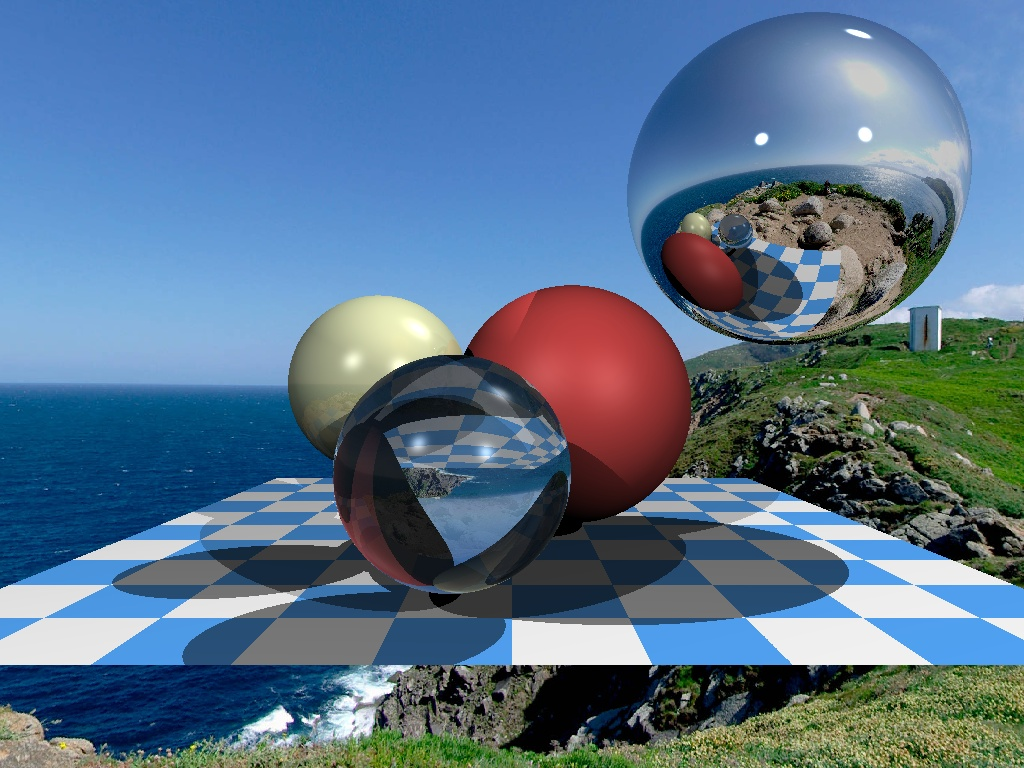
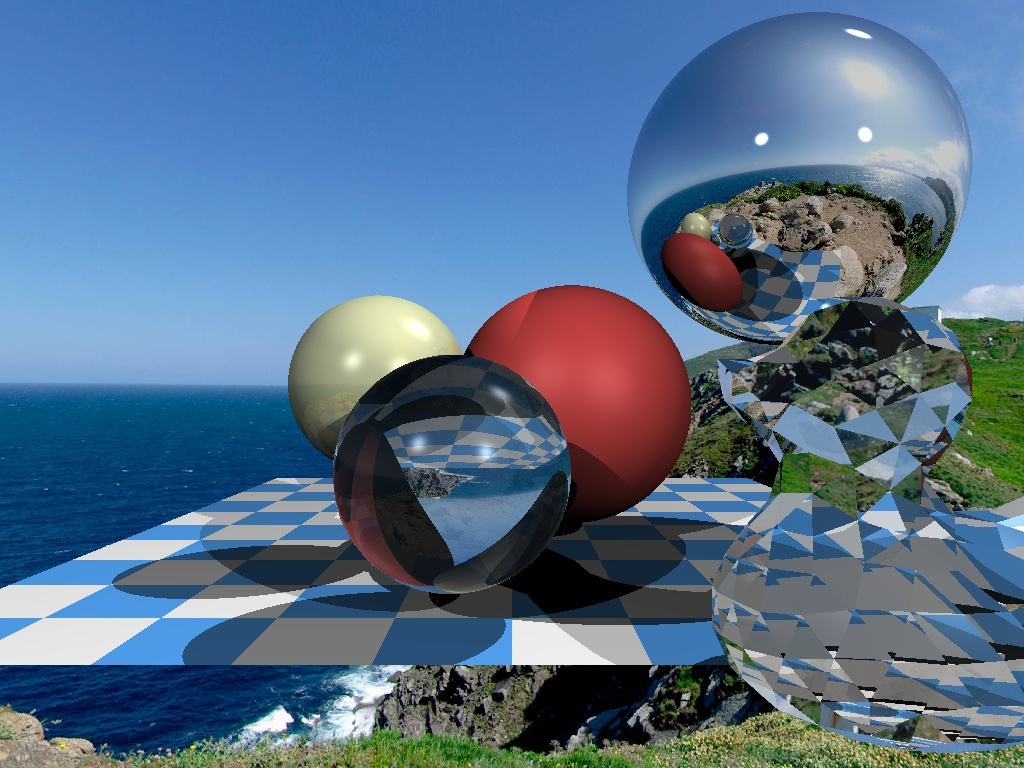
add a glass duck

Changed region(s): [[0.4688, 0.25, 1.0, 1.0], [0.3438, 0.4688, 0.5, 0.5625], [0.5312, 0.625, 0.5625, 0.6562]]

diff --git a/OpenCVRayTracer/main.cpp b/OpenCVRayTracer/main.cpp
@@ -37,42 +37,6 @@ struct Material {
 	float specular_exponent;
 };
 
-struct Triangle {
-	Vec3f plane_normal;
-	Vec3f plane_points[3];
-
-	Triangle(const Vec3f& n,const Vec3f *p) : plane_normal(n) {
-		for (int i = 0; i < 3; i++) plane_points[i] = p[i];
-	}
-
-	void operator()(const Vec3f& n, const Vec3f *p) {
-		plane_normal = n;
-		for (int i = 0; i < 3; i++) plane_points[i] = p[i];
-	}
-
-	Vec3f barycentric(const Vec3f &A, const Vec3f &B, const Vec3f &C, Vec3f &P) const {
-		Vec3f s[2];
-		for (int i = 1; i >= 0; i--) {
-			s[i][0] = C[i] - A[i];
-			s[i][1] = B[i] - A[i];
-			s[i][2] = A[i] - P[i];
-		}
-		Vec3f u = s[0].cross(s[1]);
-		Vec3f ans = Vec3f(1, -1, 1);
-		if (abs(u[2]) > 1e-2)
-			ans = Vec3f(1.f - (u[0] + u[1]) / u[2], u[1] / u[2], u[0] / u[2]);
-		return ans;
-	}
-
-	bool ray_intersect(const Vec3f &orig, const Vec3f &dir, float &t0) const {
-		float d = -dir.dot(plane_normal) / norm(dir);
-		Vec3f pt = orig + dir*d;
-		Vec3f bc = barycentric(plane_points[0], plane_points[1], plane_points[2], pt);
-		if (bc[0] < 0 || bc[1] < 0 || bc[2] < 0) return false;
-		else return true;
-	}
-};
-
 struct Sphere {
 	Vec3f center;
 	float radius;
@@ -125,20 +89,33 @@ bool scene_intersect(const Vec3f &orig, const Vec3f &dir, const std::vector<Sphe
 		}
 	}
 
+	float obj_dist = std::numeric_limits<float>::max();
+	for (int i = 0; i < model->nfaces(); i++) {
+		float dist_o;
+		if (model->ray_intersect(i, orig, dir, dist_o) && dist_o < obj_dist && dist_o < spheres_dist) {
+			obj_dist = dist_o;
+			hit = orig + dir * dist_o;
+			Vec3f edge1 = model->vert(i, 1) - model->vert(i, 0);
+			Vec3f edge2 = model->vert(i, 2) - model->vert(i, 0);
+			N = normalize(edge1.cross(edge2));
+			material = Material(1.5, Vec4f(0.0, 0.5, 0.1, 0.8), Vec3f(1.0, 1.0, 1.0), 125.);
+		}
+	}
+
+
 	float floor_dist = std::numeric_limits<float>::max();
 	if (fabs(dir[1]) > 0) {
 		float d = -(orig[1] + 4) / dir[1];
 		Vec3f pt = orig + dir*d;
-		if (d>0 && d < spheres_dist && fabs(pt[0]) < 10 && pt[2]<-10 && pt[2]>-30) {
+		if (d>0 && d < spheres_dist && d < obj_dist && fabs(pt[0]) < 10 && pt[2]<-10 && pt[2]>-30) {
 			floor_dist = d;
 			hit = pt;
 			N = Vec3f(0, 1, 0);
 			material.diffuse_color = (int(.5*hit[0]+10 ) + int(.5*hit[2])) & 1 ? Vec3f(.3, .3, .3) : Vec3f(.3, .2, .1);
-			return floor_dist < 1000;
 		}
 	}
 
-	return spheres_dist < 1000;
+	return min(min(spheres_dist, floor_dist), obj_dist) < 1000;
 }
 
 Vec3f cast_ray(const Vec3f &orig, const Vec3f &dir, const vector<Sphere> &spheres, const vector<Light> &lights, size_t depth=0) {
@@ -160,18 +137,11 @@ Vec3f cast_ray(const Vec3f &orig, const Vec3f &dir, const vector<Sphere> &sphere
 	Vec3f refract_orig = refract_dir.dot(N) > 0 ? point + N * 1e-3 : point - N * 1e-3;
 	Vec3f refract_color = cast_ray(refract_orig, refract_dir, spheres, lights, depth + 1);
 
-	
-	for (int i = 0; i < model->nfaces(); i++) {
-		Vec3f face_coords[3];
-		for (int j = 0; j < 3; j++)
-			
-	}
-
 	float diffuse_light_intensity = 0;
 	Vec3f specular_light_intensity = Vec3f(0, 0, 0);
 	for (auto &light : lights){
 		Vec3f light_dir = normalize(light.position - point);
-		Vec3f shadow_orig = point + N * 1e-3;
+		Vec3f shadow_orig = light_dir.dot(N) > 0 ? point + N * 1e-3 : point - N * 1e-3;
 		Vec3f point_shadow, N_shadow;
 		Material material_shadow;
 		if (scene_intersect(shadow_orig, light_dir, spheres, point_shadow, N_shadow, material_shadow)) continue;
@@ -179,7 +149,7 @@ Vec3f cast_ray(const Vec3f &orig, const Vec3f &dir, const vector<Sphere> &sphere
 		specular_light_intensity += light.color * powf(max(0.f, -dir.dot(reflect(-light_dir, N))), material.specular_exponent);
 	}
 
-	return material.diffuse_color * diffuse_light_intensity * material.albedo[0] + specular_light_intensity * material.albedo[1]  + reflect_color * material.albedo[2] + refract_color * material.albedo[3];
+	return material.diffuse_color * diffuse_light_intensity * material.albedo[0] + specular_light_intensity * material.albedo[1] + reflect_color * material.albedo[2] + refract_color * material.albedo[3]  ;
 }
 
 void render(const vector<Sphere> &spheres, const vector<Light> &lights, Mat &frame) {
@@ -226,8 +196,6 @@ int main()
 	//flip(frame, frame, 0);
 	imshow("frame", frame);
 	imwrite("frame.jpg", frame);
-	delete model;
-	model = nullptr;
 	waitKey(0);
 	system("pause");
 	return 0;

diff --git a/OpenCVRayTracer/model.cpp b/OpenCVRayTracer/model.cpp
@@ -3,6 +3,7 @@
 #include <fstream>
 #include <sstream>
 #include <vector>
+#include <algorithm>
 #include "model.h"
 
 using namespace cv;
@@ -22,33 +23,17 @@ Model::Model(const char *filename) : verts_(), faces_() {
 			for (int i = 0; i < 3; i++) iss >> v[i];
 			verts_.push_back(v);
 		}
-		else if (!line.compare(0, 3, "vn ")) {
-			iss >> trash >> trash;
-			Vec3f n;
-			for (int i = 0; i < 3; i++) iss >> n[i];
-			norms_.push_back(n);
-		}
-		else if (!line.compare(0, 3, "vt ")) {
-			iss >> trash >> trash;
-			Vec2f uv;
-			for (int i = 0; i < 2; i++) iss >> uv[i];
-			uv_.push_back(uv);
-		}
 		else if (!line.compare(0, 2, "f ")) {
-			std::vector<Vec3i> f;
-			Vec3i tmp;
+			Vec3i f;
 			iss >> trash;
-			while (iss >> tmp[0] >> trash >> tmp[1] >> trash >> tmp[2]) {
-				for (int i = 0; i < 3; i++) tmp[i]--; // in wavefront obj all indices start at 1, not zero
-				f.push_back(tmp);
-			}
+			for (int i = 0; i < 3; i++) iss >> f[i];
+			f -= Vec3f(1, 1, 1);
 			faces_.push_back(f);
 		}
 	}
-	std::cerr << "# v# " << verts_.size() << " f# " << faces_.size() << " vt# " << uv_.size() << " vn# " << norms_.size() << std::endl;
-	load_texture(filename, "_diffuse.bmp", diffusemap_);
-	load_texture(filename, "_nm_tangent.bmp", normalmap_);
-	load_texture(filename, "_spec.bmp", specularmap_);
+	std::cerr << "# v# " << verts_.size() << " f# " << faces_.size() << std::endl;
+
+	get_bbox(mincorner, maxcorner);
 }
 
 Model::~Model() {
@@ -62,7 +47,7 @@ int Model::nfaces() {
     return (int)faces_.size();
 }
 
-std::vector<Vec3i> Model::face(int idx) {
+Vec3i Model::face(int idx) {
     return faces_[idx];
 }
 
@@ -72,46 +57,35 @@ Vec3f Model::vert(int i) {
 
 Vec3f Model::vert(int iface, int nthvert)
 {
-	return verts_[faces_[iface][nthvert][0]];
+	return verts_[faces_[iface][nthvert]];
 }
 
-Vec3f Model::normal(int iface, int nthvert) {
-	int idx = faces_[iface][nthvert][2];
-	return normalize(norms_[idx]);
-}
-
-Vec2f Model::uv(int iface, int nthvert) {
-	return uv_[faces_[iface][nthvert][1]];
-}
-
-Scalar Model::diffuse(Vec2f uvf) {
-	Vec2i uv(uvf[0] * diffusemap_.cols, uvf[1] * diffusemap_.rows);
-	Scalar ans = diffusemap_.at<Vec3b>(uv[1], uv[0]);
-	return ans;
-}
-
-Vec3f Model::normal(Vec2f uvf) {
-	Vec2i uv(uvf[0] * normalmap_.cols, uvf[1] * normalmap_.rows);
-	Scalar c = normalmap_.at<Vec3b>(uv[1], uv[0]);
-	Vec3f res;
-	for (int i = 0; i < 3; i++)
-		res[2 - i] = (float)c[i] / 255.f*2.f - 1.f;
-	return res;
-}
-
-float Model::specular(Vec2f uvf) {
-	Vec2i uv(uvf[0] * specularmap_.cols, uvf[1] * specularmap_.rows);
-	return specularmap_.at<Vec3b>(uv[0], uv[1])[0] / 1.f;
-}
-
-void Model::load_texture(std::string filename, const char *suffix, Mat &img) {
-	std::string texfile(filename);
-	size_t dot = texfile.find_last_of(".");
-	if (dot != std::string::npos) {
-		texfile = texfile.substr(0, dot) + std::string(suffix);
-		img = imread(texfile.c_str());
-		std::cerr << "texture file " << texfile << " loading " <<  (img.empty() ? "failed" : "ok")<< std::endl;
-		flip(img, img, 0);
+void Model::get_bbox(Vec3f &mincorner, Vec3f &maxcorner) {
+	mincorner = maxcorner = verts_[0];
+	for (int i = 1; i < (int)verts_.size(); ++i) {
+		for (int j = 0; j < 3; j++) {
+			mincorner[j] = std::min(mincorner[j], verts_[i][j]);
+			maxcorner[j] = std::max(maxcorner[j], verts_[i][j]);
+		}
 	}
+	std::cerr << "bbox: [" << mincorner << " : " << maxcorner << "]" << std::endl;
 }
 
+bool Model::ray_intersect(const int &fi, const Vec3f &orig, const Vec3f &dir, float &tnear) {
+	Vec3f edge1 = vert(fi, 1) - vert(fi, 0);
+	Vec3f edge2 = vert(fi, 2) - vert(fi, 0);
+	Vec3f pvec = dir.cross(edge2);
+	float det = edge1 .dot(pvec);
+	if (det < 1e-5) return false;
+
+	Vec3f tvec = orig - vert(fi, 0);
+	float u = tvec .dot(pvec);
+	if (u < 0 || u > det) return false;
+
+	Vec3f qvec = tvec.cross(edge1);
+	float v = dir.dot(qvec);
+	if (v < 0 || u + v > det) return false;
+
+	tnear = edge2.dot(qvec) * (1. / det);
+	return tnear > 1e-5;
+}

diff --git a/OpenCVRayTracer/model.h b/OpenCVRayTracer/model.h
@@ -8,16 +8,8 @@
 class Model {
 private:
 	std::vector<cv::Vec3f> verts_;
-	std::vector<cv::Vec3f> norms_;
-	std::vector<cv::Vec2f> uv_;
-	std::vector<std::vector<cv::Vec3i>> faces_;
-
-	cv::Mat diffusemap_;
-	cv::Mat normalmap_;
-	cv::Mat specularmap_;
-
-	void load_texture(std::string filename, const char *suffix, cv::Mat &img);
-
+	std::vector<cv::Vec3i> faces_;
+	cv::Vec3f mincorner, maxcorner;
 public:
 	Model(const char *filename);
 	~Model();
@@ -25,12 +17,10 @@ public:
 	int nfaces();
 	cv::Vec3f vert(int i);
 	cv::Vec3f vert(int iface, int nthvert);
-	cv::Vec3f normal(cv::Vec2f uv);
-	cv::Vec3f normal(int iface, int nthvert);
-	cv::Vec2f uv(int iface, int nthvert);
-	cv::Scalar diffuse(cv::Vec2f uv);
-	float specular(cv::Vec2f uv);
-	std::vector<cv::Vec3i> face(int idx);
+	cv::Vec3i face(int idx);
+
+	void get_bbox(cv::Vec3f &mincorner, cv::Vec3f &maxcorner);
+	bool ray_intersect(const int &fi, const cv::Vec3f &orig, const cv::Vec3f &dir, float &tnear);
 };
 
 #endif //__MODEL_H__
